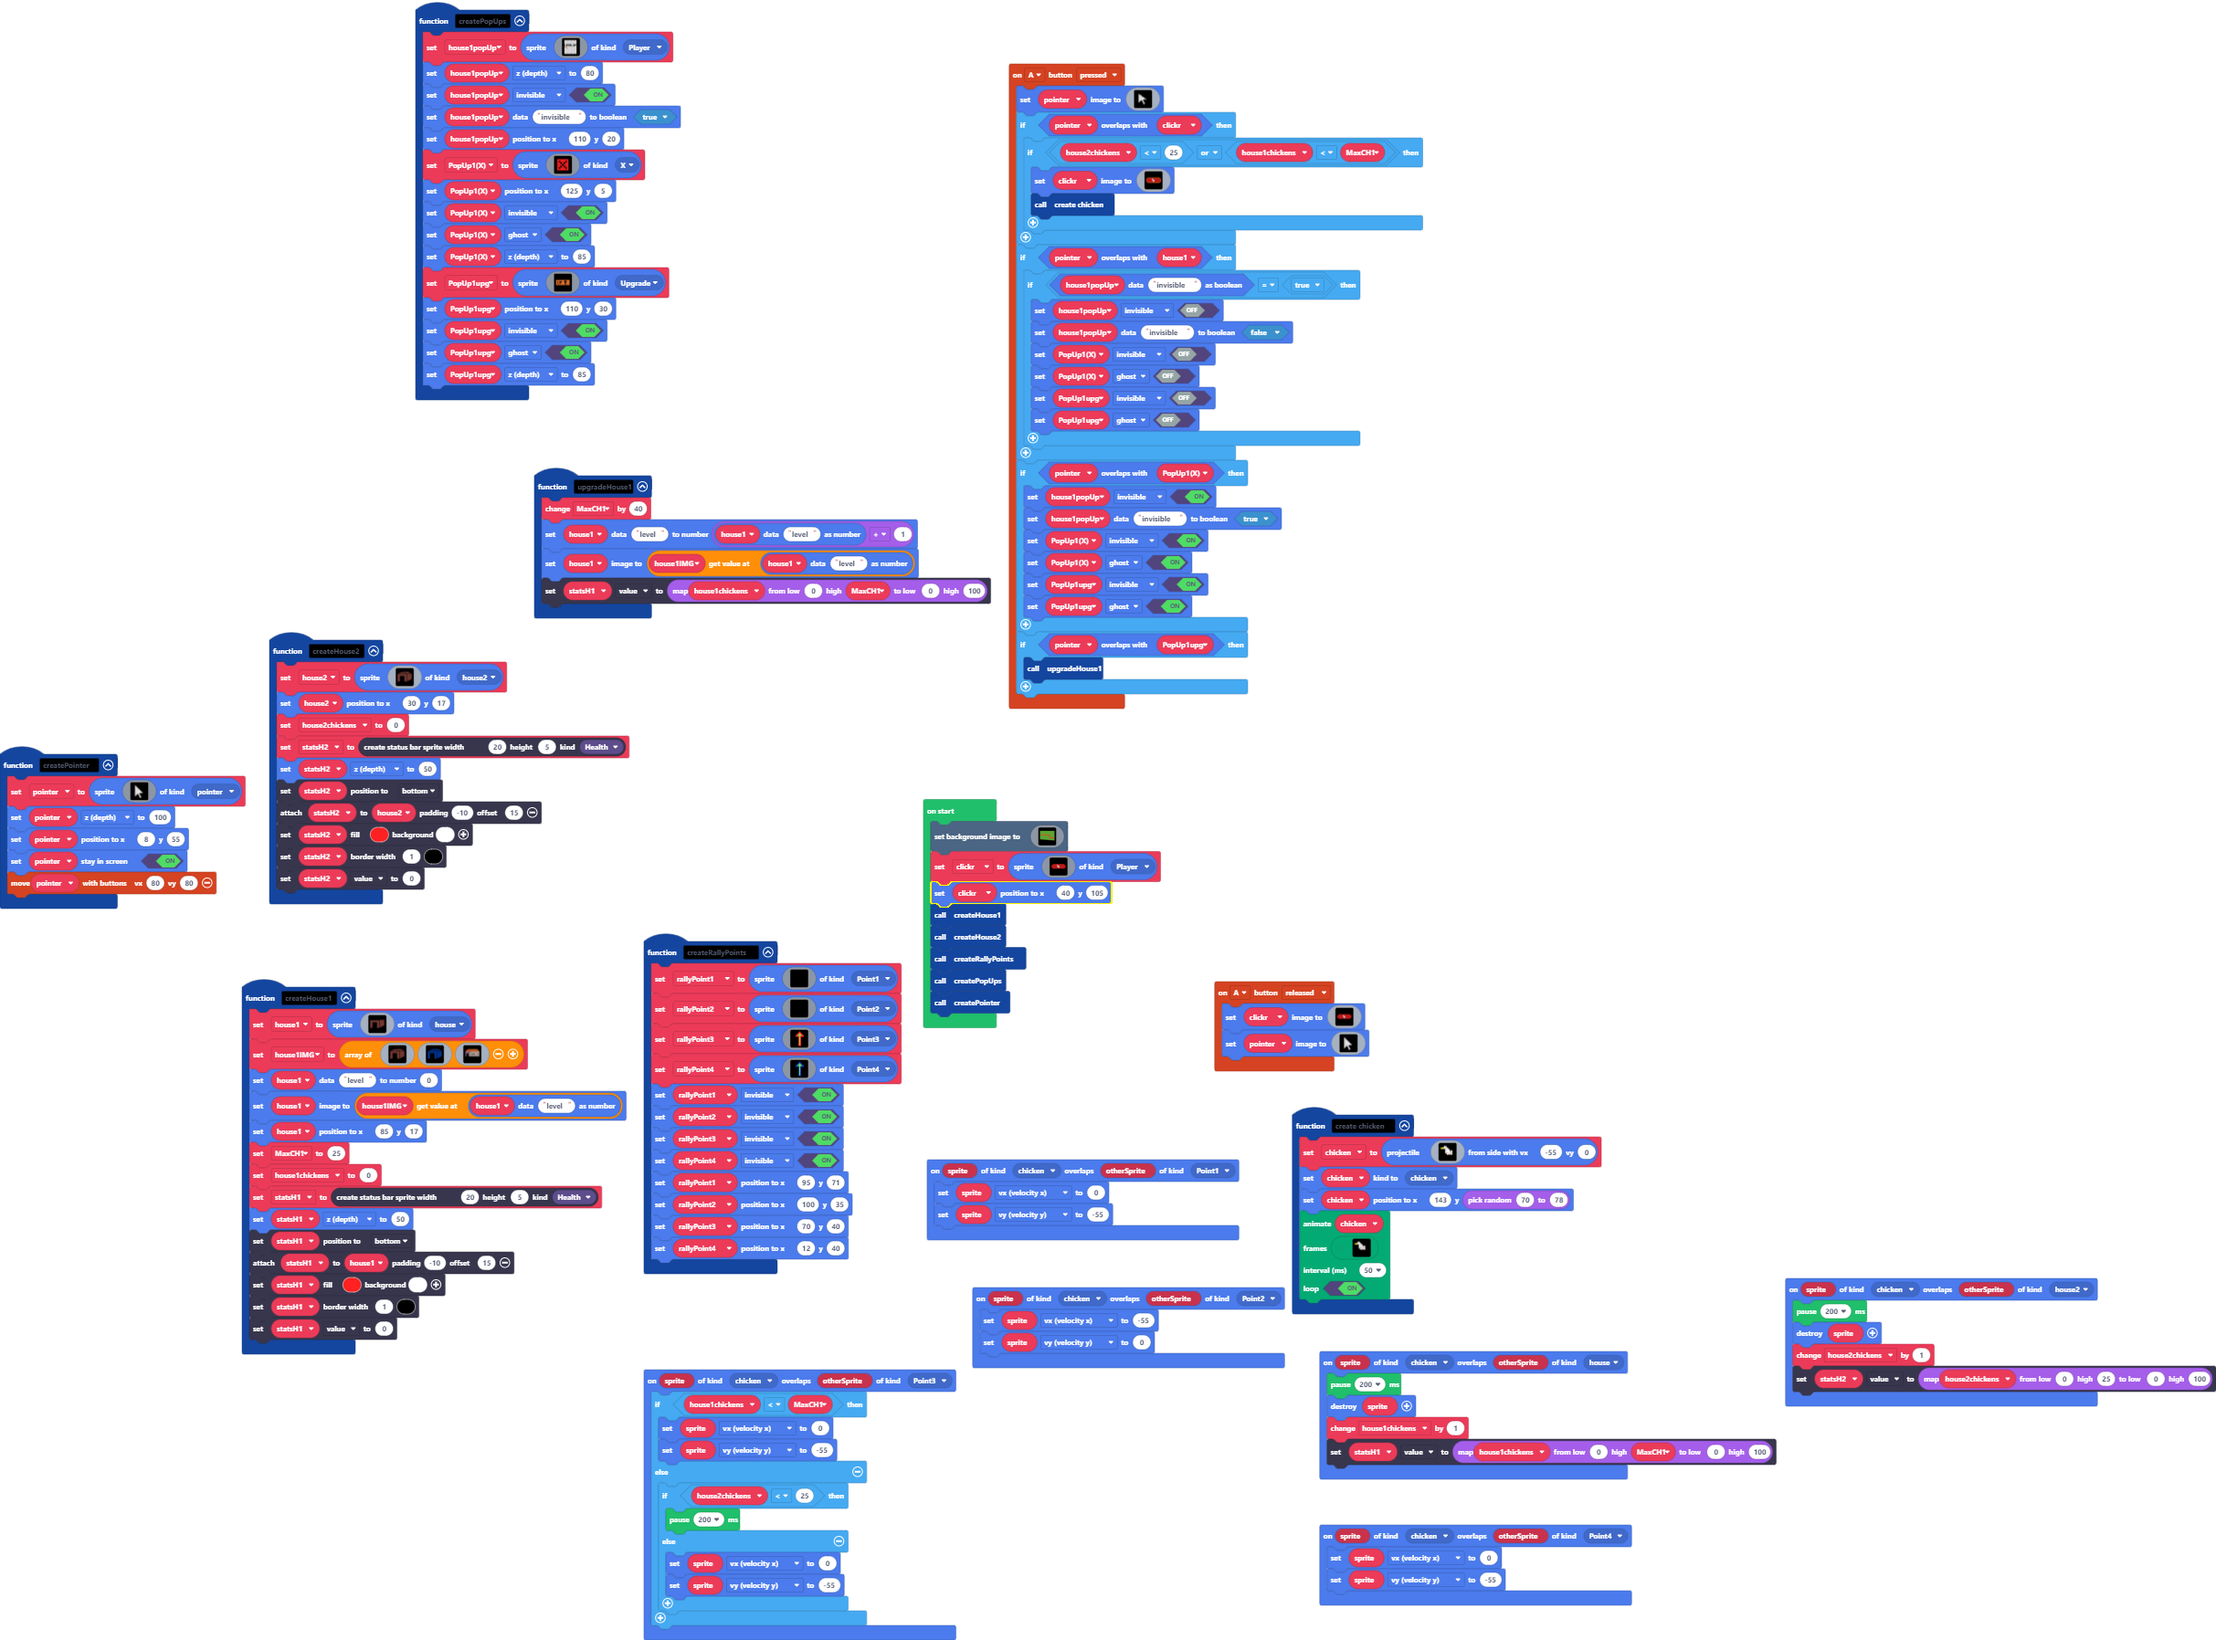
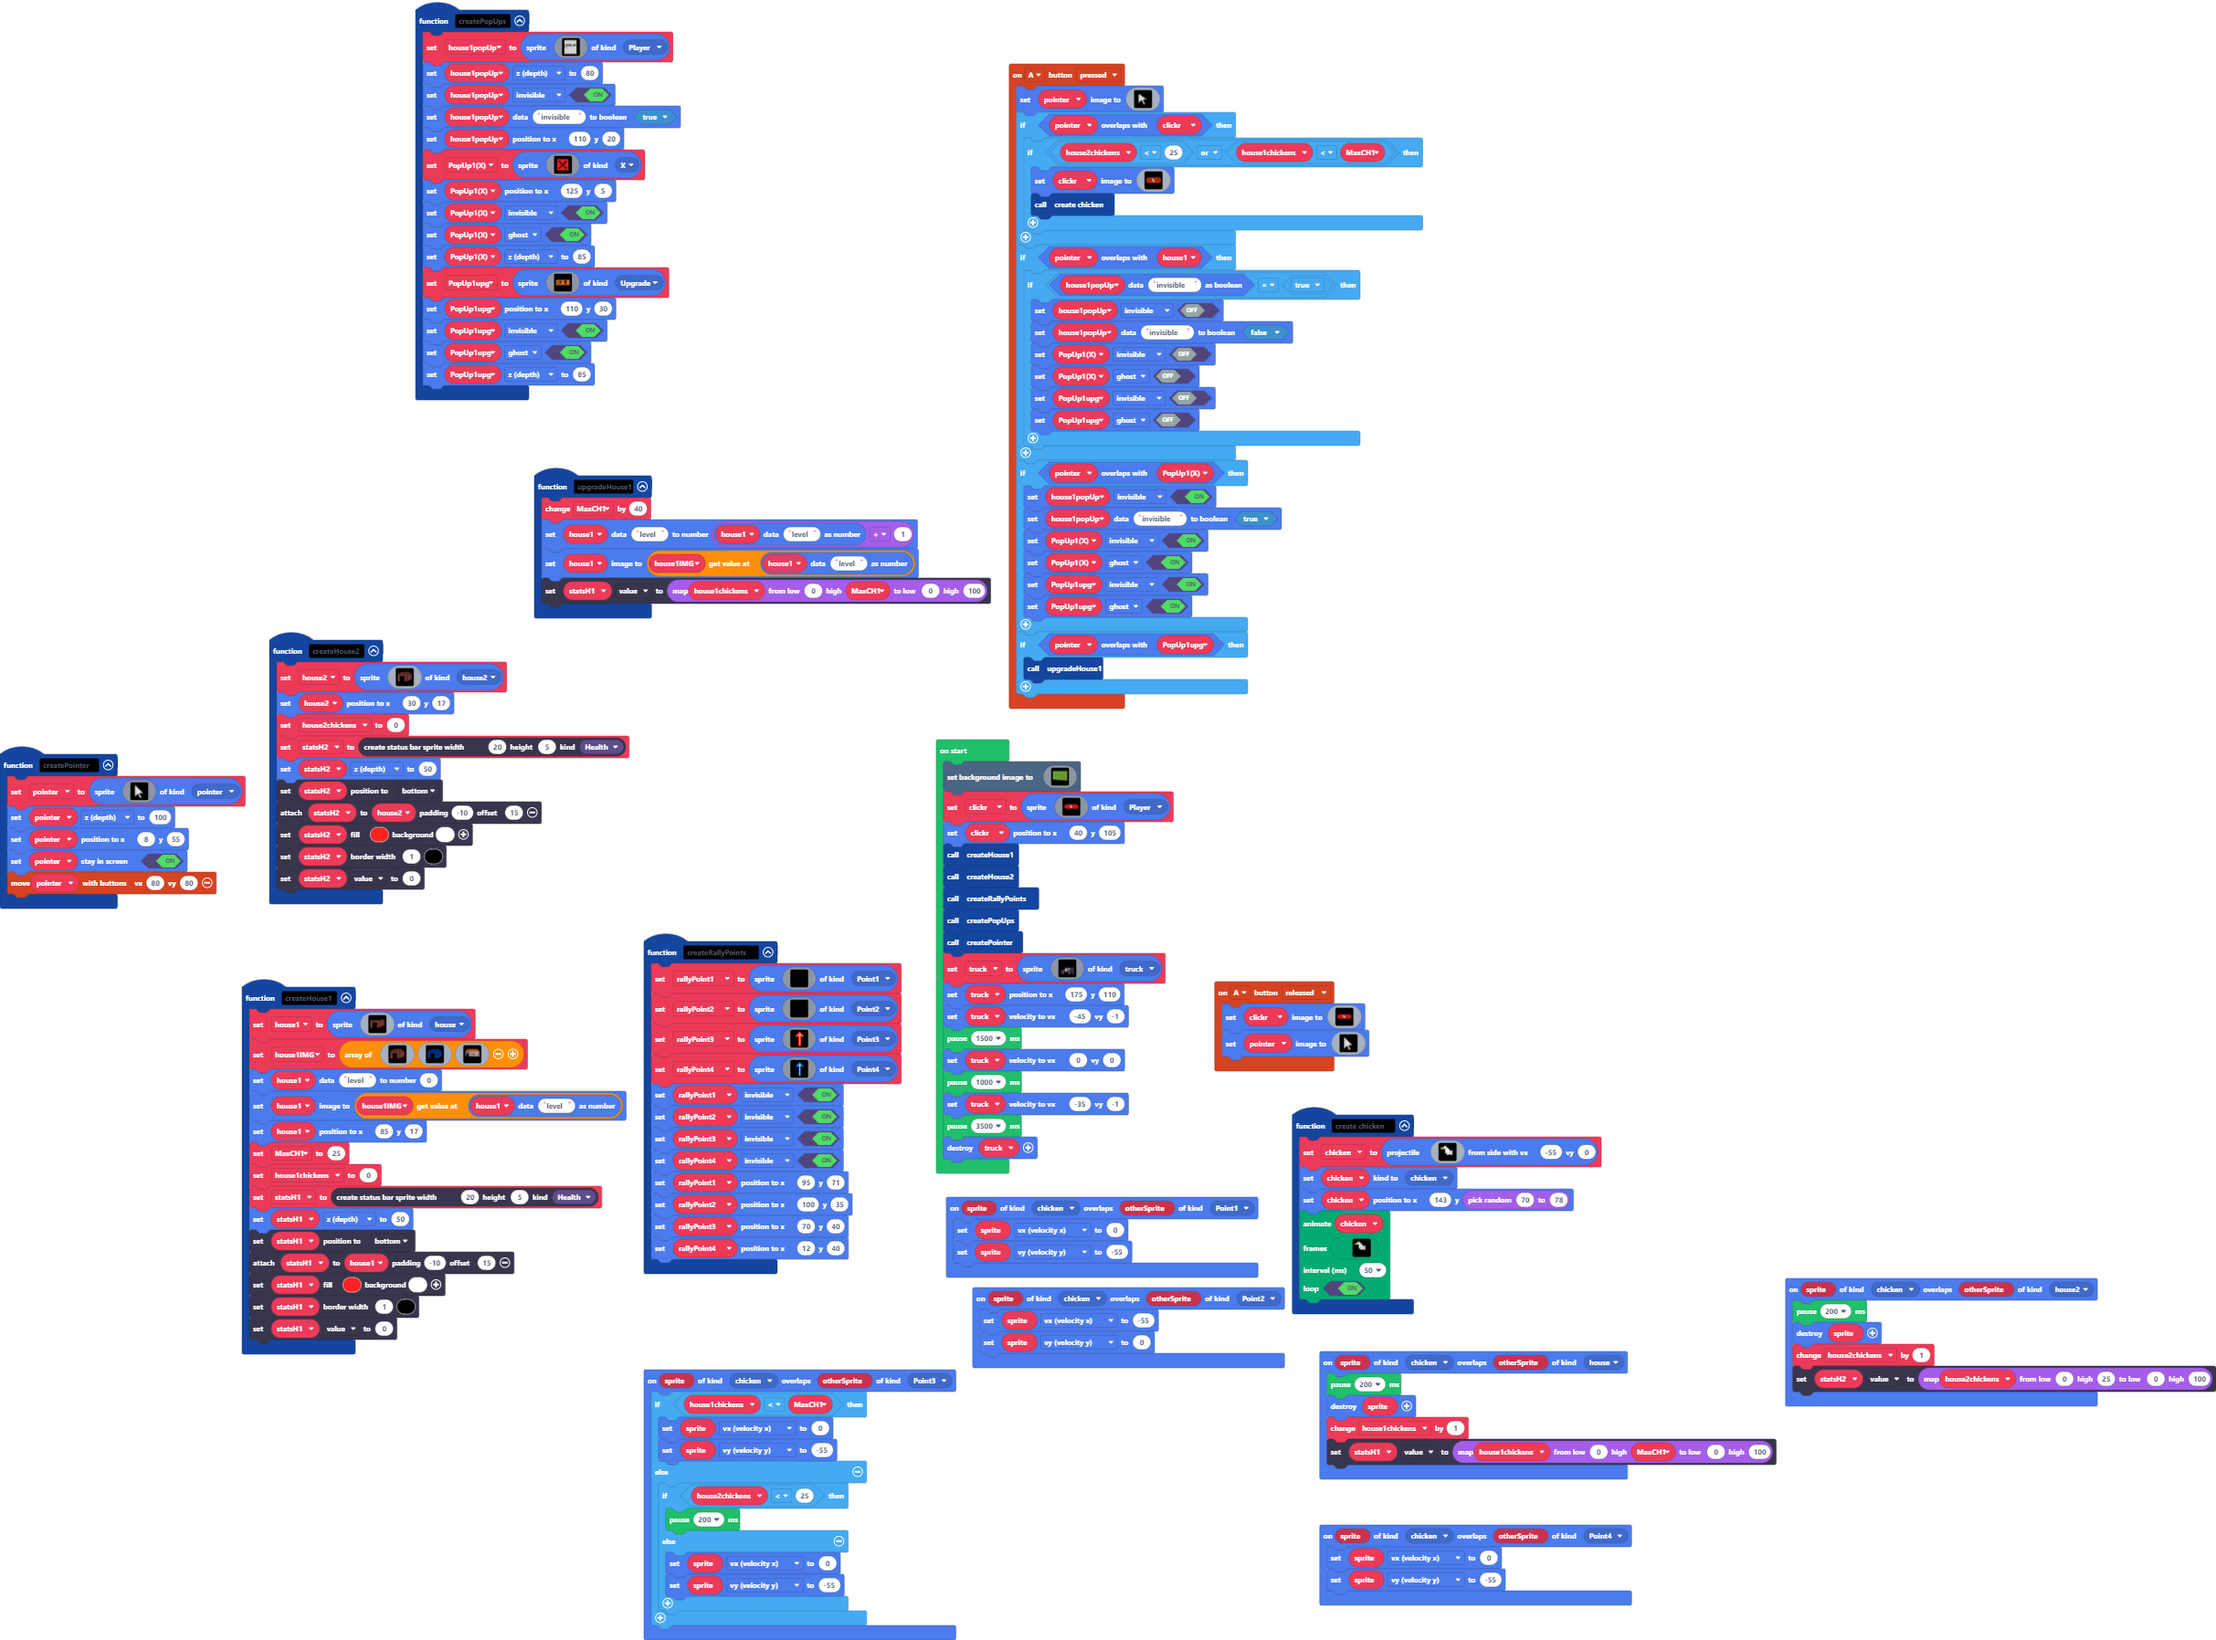
When the program starts, a truck will stop by the factory.

Changed region(s): [[0.4019, 0.4365, 0.5874, 0.7795]]

diff --git a/main.ts b/main.ts
@@ -10,6 +10,7 @@ namespace SpriteKind {
     export const pointer = SpriteKind.create()
     export const X = SpriteKind.create()
     export const Upgrade = SpriteKind.create()
+    export const truck = SpriteKind.create()
 }
 sprites.onOverlap(SpriteKind.chicken, SpriteKind.house2, function (sprite, otherSprite) {
     pause(200)
@@ -809,3 +810,43 @@ createHouse2()
 createRallyPoints()
 createPopUps()
 createPointer()
+let truck = sprites.create(img`
+    ........................................
+    ........................................
+    ........................................
+    ........................................
+    ........................................
+    ........................................
+    ........................................
+    ........................................
+    ........................................
+    ..............ff........................
+    .............fff........................
+    .............ff.........................
+    ............fffffffffffffffffffffffffff.
+    ............fccccccc11ccccccfcccccccccf.
+    ...........ffccccccc1cccccccfcccccccccf.
+    ..........fefccc1ccc11ccccccfcccccccccf.
+    .........ffffcc111cc1cc11c11fcccccccccf.
+    ........feeefc11111c11c11c11fcccccccccf.
+    .....ffff66efc11111ccccc1cc1fffcccccfff.
+    ....feeef66efc11111cccc11c11f5fcccccf5f.
+    ...feeeef66efc11111cccccccccfffcccccfff.
+    ..ffffffeeeefc11111cccccccccf2fcccccf2f.
+    ..feeeeeeeeefcc111ccccccccccfffcccccfff.
+    ..feeeeeeeeefcccccccccccccccfcccccccccf.
+    ..feeefffeeefcccccccccccfffcfcccccccccf.
+    ..feef111feefccccccccccf111ffcccccccccf.
+    ..fff1fff1fffffffffffff1fff1fffffffffff.
+    .....1fff1.............1fff1.....1fff1..
+    .....1fff1.............1fff1......111...
+    ......111...............111.............
+    `, SpriteKind.truck)
+truck.setPosition(175, 110)
+truck.setVelocity(-45, -1)
+pause(1500)
+truck.setVelocity(0, 0)
+pause(1000)
+truck.setVelocity(-35, -1)
+pause(3500)
+truck.destroy()
